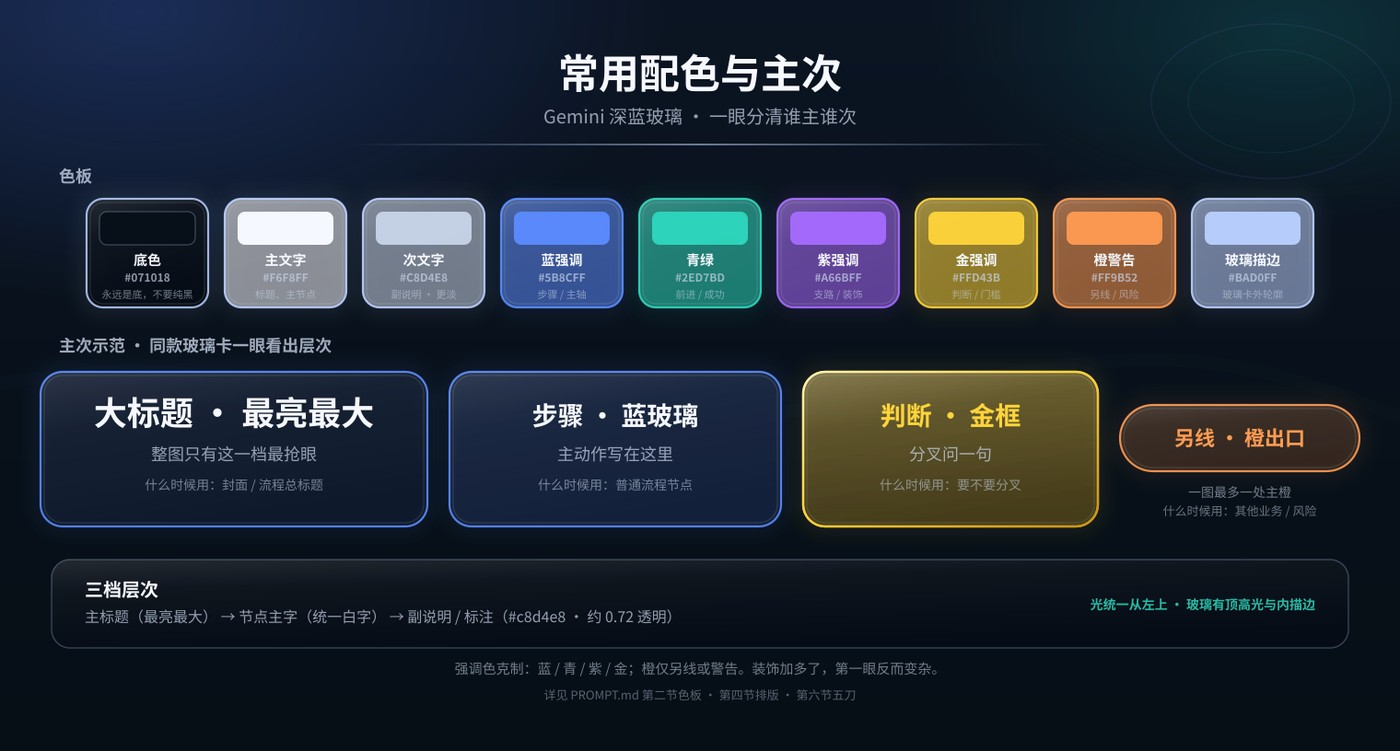
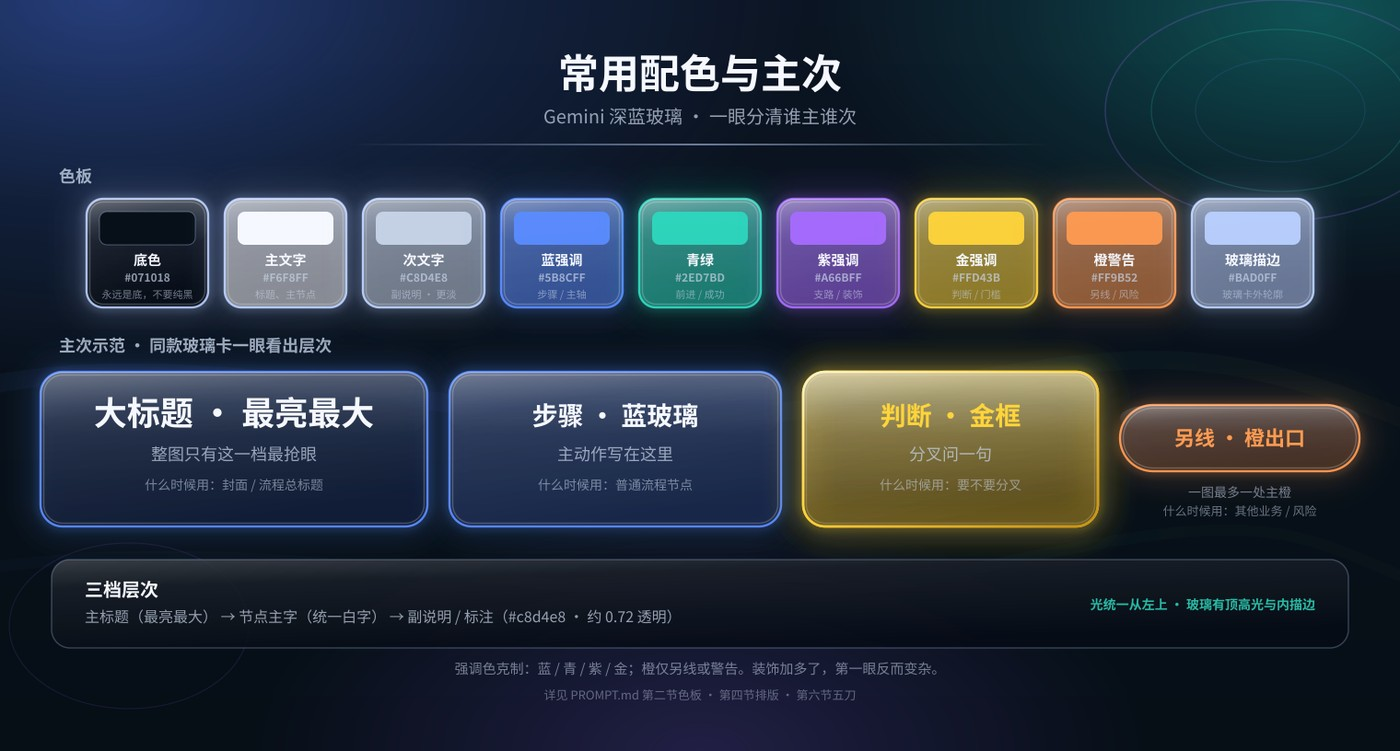
Amp frosted glass and glow on palette + flow sample (v12)
- Stronger radial glows, orbital rings, dual soft/tight outer glow
- Frost overlay, wider top specular band, clearer inner stroke
- Sample preview updated to rebate-flow-v12

diff --git a/build_palette.py b/build_palette.py
@@ -38,20 +38,24 @@ def text(x,y,s,sz,fill=TXT,wt=700,anchor="middle",op=1.0):
     return (f'<text x="{x:.1f}" y="{y:.1f}" text-anchor="{anchor}" font-family="{FONT}" '
             f'font-size="{sz}" font-weight="{wt}" fill="{fill}" fill-opacity="{op}">{esc(s)}</text>')
 
-def glass_card(x,y,w,h,stroke, rx=24, fill_tint=None, tint_op=0.16):
+def glass_card(x,y,w,h,stroke, rx=24, fill_tint=None, tint_op=0.22):
     p = []
     p.append(f'<rect x="{x}" y="{y}" width="{w}" height="{h}" rx="{rx}" fill="none" stroke="{stroke}" '
-             f'stroke-width="10" stroke-opacity="0.14" filter="url(#softGlow)"/>')
-    p.append(f'<rect x="{x}" y="{y}" width="{w}" height="{h}" rx="{rx}" fill="#060c15" fill-opacity="0.88"/>')
+             f'stroke-width="20" stroke-opacity="0.20" filter="url(#softGlow)"/>')
+    p.append(f'<rect x="{x}" y="{y}" width="{w}" height="{h}" rx="{rx}" fill="none" stroke="{stroke}" '
+             f'stroke-width="7" stroke-opacity="0.28" filter="url(#tightGlow)"/>')
+    p.append(f'<rect x="{x}" y="{y}" width="{w}" height="{h}" rx="{rx}" fill="#050b14" fill-opacity="0.90"/>')
     if fill_tint:
         p.append(f'<rect x="{x}" y="{y}" width="{w}" height="{h}" rx="{rx}" fill="{fill_tint}" fill-opacity="{tint_op}" '
-                 f'stroke="{stroke}" stroke-opacity="0.9" stroke-width="2.2"/>')
+                 f'stroke="{stroke}" stroke-opacity="0.95" stroke-width="2.4"/>')
     else:
         p.append(f'<rect x="{x}" y="{y}" width="{w}" height="{h}" rx="{rx}" fill="none" '
-                 f'stroke="{stroke}" stroke-opacity="0.85" stroke-width="2.2"/>')
+                 f'stroke="{stroke}" stroke-opacity="0.9" stroke-width="2.4"/>')
+    p.append(f'<rect x="{x}" y="{y}" width="{w}" height="{h}" rx="{rx}" fill="url(#frost)"/>')
     p.append(f'<rect x="{x}" y="{y}" width="{w}" height="{h}" rx="{rx}" fill="url(#glassHi)"/>')
-    p.append(f'<rect x="{x+4}" y="{y+4}" width="{w-8}" height="{h-8}" rx="{max(rx-4,4)}" fill="none" '
-             f'stroke="#ffffff" stroke-opacity="0.12" stroke-width="1.15"/>')
+    p.append(f'<rect x="{x}" y="{y}" width="{w}" height="{max(h*0.4, 24):.1f}" rx="{rx}" fill="url(#glassTopBand)"/>')
+    p.append(f'<rect x="{x+3.5}" y="{y+3.5}" width="{w-7}" height="{h-7}" rx="{max(rx-3.5,4)}" fill="none" '
+             f'stroke="#ffffff" stroke-opacity="0.22" stroke-width="1.4"/>')
     return "\n".join(p)
 
 parts = []
@@ -126,25 +130,29 @@ rx0 = (W - row_w) / 2
 
 # Title sample card
 x = rx0
-parts.append(glass_card(x, y_demo, dw1, demo_h, BLUE, rx=24, fill_tint=BLUE, tint_op=0.10))
+parts.append(glass_card(x, y_demo, dw1, demo_h, BLUE, rx=24, fill_tint=BLUE, tint_op=0.14))
 parts.append(text(x + dw1/2, y_demo + 58, "大标题 · 最亮最大", 36, TXT, 800))
 parts.append(text(x + dw1/2, y_demo + 96, "整图只有这一档最抢眼", 18, MUTED, 500, op=0.72))
 parts.append(text(x + dw1/2, y_demo + 128, "什么时候用：封面 / 流程总标题", 14, MUTED, 500, op=0.55))
 
 # Blue step
 x = rx0 + dw1 + gapd
-parts.append(glass_card(x, y_demo, dw2, demo_h, BLUE, rx=24, fill_tint=BLUE, tint_op=0.16))
+parts.append(glass_card(x, y_demo, dw2, demo_h, BLUE, rx=24, fill_tint=BLUE, tint_op=0.22))
 parts.append(text(x + dw2/2, y_demo + 58, "步骤 · 蓝玻璃", 28, TXT, 800))
 parts.append(text(x + dw2/2, y_demo + 96, "主动作写在这里", 18, MUTED, 500, op=0.72))
 parts.append(text(x + dw2/2, y_demo + 128, "什么时候用：普通流程节点", 14, MUTED, 500, op=0.55))
 
 # Gold decision
 x = rx0 + dw1 + gapd + dw2 + gapd
-parts.append(glass_card(x, y_demo, dw3, demo_h, GOLD, rx=24, fill_tint=GOLD, tint_op=0.18))
+parts.append(glass_card(x, y_demo, dw3, demo_h, GOLD, rx=24, fill_tint=GOLD, tint_op=0.26))
 # override with gold stroke gradient look
+parts.append(f'<rect x="{x}" y="{y_demo}" width="{dw3}" height="{demo_h}" rx="24" fill="none" stroke="{GOLD}" '
+             f'stroke-width="18" stroke-opacity="0.22" filter="url(#softGlow)"/>')
 parts.append(f'<rect x="{x}" y="{y_demo}" width="{dw3}" height="{demo_h}" rx="24" fill="url(#goldFill)" '
-             f'stroke="url(#goldStroke)" stroke-width="2.4"/>')
+             f'stroke="url(#goldStroke)" stroke-width="2.6"/>')
+parts.append(f'<rect x="{x}" y="{y_demo}" width="{dw3}" height="{demo_h}" rx="24" fill="url(#frost)"/>')
 parts.append(f'<rect x="{x}" y="{y_demo}" width="{dw3}" height="{demo_h}" rx="24" fill="url(#glassHi)"/>')
+parts.append(f'<rect x="{x}" y="{y_demo}" width="{dw3}" height="{demo_h*0.4:.1f}" rx="24" fill="url(#glassTopBand)"/>')
 parts.append(text(x + dw3/2, y_demo + 58, "判断 · 金框", 28, GOLD, 800))
 parts.append(text(x + dw3/2, y_demo + 96, "分叉问一句", 18, MUTED, 500, op=0.72))
 parts.append(text(x + dw3/2, y_demo + 128, "什么时候用：要不要分叉", 14, MUTED, 500, op=0.55))
@@ -153,7 +161,7 @@ parts.append(text(x + dw3/2, y_demo + 128, "什么时候用：要不要分叉", 
 x = rx0 + dw1 + gapd + dw2 + gapd + dw3 + gapd
 pill_h = 72
 py = y_demo + (demo_h - pill_h) / 2 - 12
-parts.append(glass_card(x, py, dw4, pill_h, ORANGE, rx=pill_h/2, fill_tint=ORANGE, tint_op=0.18))
+parts.append(glass_card(x, py, dw4, pill_h, ORANGE, rx=pill_h/2, fill_tint=ORANGE, tint_op=0.26))
 parts.append(text(x + dw4/2, py + pill_h/2 + 8, "另线 · 橙出口", 22, ORANGE, 800))
 parts.append(text(x + dw4/2, py + pill_h + 28, "一图最多一处主橙", 14, MUTED, 500, op=0.55))
 parts.append(text(x + dw4/2, py + pill_h + 48, "什么时候用：其他业务 / 风险", 13, MUTED, 500, op=0.5))
@@ -189,40 +197,59 @@ defs = f'''
   <stop offset="0%" stop-color="#0b1422"/><stop offset="70%" stop-color="{BG}"/>
   <stop offset="100%" stop-color="#060e16"/>
 </linearGradient>
-<radialGradient id="glowBlue" cx="10%" cy="2%" r="38%">
-  <stop offset="0%" stop-color="{CORE_BLUE}" stop-opacity="0.24"/><stop offset="100%" stop-color="{CORE_BLUE}" stop-opacity="0"/>
+<radialGradient id="glowBlue" cx="8%" cy="0%" r="50%">
+  <stop offset="0%" stop-color="{CORE_BLUE}" stop-opacity="0.40"/><stop offset="55%" stop-color="{CORE_BLUE}" stop-opacity="0.12"/>
+  <stop offset="100%" stop-color="{CORE_BLUE}" stop-opacity="0"/>
 </radialGradient>
-<radialGradient id="glowTeal" cx="92%" cy="4%" r="26%">
-  <stop offset="0%" stop-color="#19e7d0" stop-opacity="0.14"/><stop offset="100%" stop-color="#19e7d0" stop-opacity="0"/>
+<radialGradient id="glowTeal" cx="94%" cy="2%" r="36%">
+  <stop offset="0%" stop-color="#19e7d0" stop-opacity="0.30"/><stop offset="60%" stop-color="#19e7d0" stop-opacity="0.09"/>
+  <stop offset="100%" stop-color="#19e7d0" stop-opacity="0"/>
+</radialGradient>
+<radialGradient id="glowBot" cx="50%" cy="100%" r="32%">
+  <stop offset="0%" stop-color="#8e63ff" stop-opacity="0.20"/><stop offset="100%" stop-color="#8e63ff" stop-opacity="0"/>
 </radialGradient>
 <linearGradient id="divider" x1="0" y1="0" x2="1" y2="0">
   <stop offset="0%" stop-color="{BORDER}" stop-opacity="0"/><stop offset="50%" stop-color="{BORDER}" stop-opacity="0.55"/>
   <stop offset="100%" stop-color="{BORDER}" stop-opacity="0"/>
 </linearGradient>
-<linearGradient id="glassHi" x1="0" y1="0" x2="0.35" y2="1">
-  <stop offset="0%" stop-color="#ffffff" stop-opacity="0.12"/><stop offset="35%" stop-color="#ffffff" stop-opacity="0.035"/>
+<linearGradient id="glassHi" x1="0" y1="0" x2="0.4" y2="1">
+  <stop offset="0%" stop-color="#ffffff" stop-opacity="0.20"/><stop offset="28%" stop-color="#ffffff" stop-opacity="0.07"/>
   <stop offset="100%" stop-color="#ffffff" stop-opacity="0"/>
 </linearGradient>
+<linearGradient id="glassTopBand" x1="0" y1="0" x2="0" y2="1">
+  <stop offset="0%" stop-color="#ffffff" stop-opacity="0.18"/><stop offset="55%" stop-color="#b8d4ff" stop-opacity="0.06"/>
+  <stop offset="100%" stop-color="#ffffff" stop-opacity="0"/>
+</linearGradient>
+<linearGradient id="frost" x1="0" y1="0" x2="0" y2="1">
+  <stop offset="0%" stop-color="#dce8ff" stop-opacity="0.10"/><stop offset="40%" stop-color="#a8c4ff" stop-opacity="0.045"/>
+  <stop offset="100%" stop-color="#071018" stop-opacity="0.02"/>
+</linearGradient>
 <linearGradient id="goldFill" x1="0" y1="0" x2="0" y2="1">
-  <stop offset="0%" stop-color="{GOLD}" stop-opacity="0.22"/><stop offset="100%" stop-color="#b8860b" stop-opacity="0.12"/>
+  <stop offset="0%" stop-color="{GOLD}" stop-opacity="0.34"/><stop offset="100%" stop-color="#b8860b" stop-opacity="0.18"/>
 </linearGradient>
 <linearGradient id="goldStroke" x1="0" y1="0" x2="1" y2="1">
   <stop offset="0%" stop-color="#fff3b0"/><stop offset="45%" stop-color="{GOLD}"/><stop offset="100%" stop-color="#c99214"/>
 </linearGradient>
 <linearGradient id="ribbon" x1="0" y1="0" x2="1" y2="0">
-  <stop offset="0%" stop-color="#4285f4" stop-opacity="0.16"/><stop offset="40%" stop-color="#8e63ff" stop-opacity="0.12"/>
-  <stop offset="75%" stop-color="#2ed7bd" stop-opacity="0.10"/><stop offset="100%" stop-color="#ffd43b" stop-opacity="0.08"/>
+  <stop offset="0%" stop-color="#4285f4" stop-opacity="0.32"/><stop offset="40%" stop-color="#8e63ff" stop-opacity="0.24"/>
+  <stop offset="75%" stop-color="#2ed7bd" stop-opacity="0.18"/><stop offset="100%" stop-color="#ffd43b" stop-opacity="0.12"/>
 </linearGradient>
-<filter id="softGlow" x="-25%" y="-45%" width="150%" height="190%"><feGaussianBlur stdDeviation="10"/></filter>
+<filter id="softGlow" x="-40%" y="-60%" width="180%" height="220%"><feGaussianBlur stdDeviation="16"/></filter>
+<filter id="tightGlow" x="-20%" y="-35%" width="140%" height="170%"><feGaussianBlur stdDeviation="5"/></filter>
 '''
 
 bg = (f'<rect width="{W}" height="{H}" fill="url(#bgGrad)"/>'
       f'<rect width="{W}" height="{H}" fill="url(#glowBlue)"/>'
       f'<rect width="{W}" height="{H}" fill="url(#glowTeal)"/>'
-      f'<ellipse cx="1380" cy="110" rx="130" ry="84" fill="none" stroke="{PURPLE}" stroke-opacity="0.12" stroke-width="1.1"/>'
-      f'<ellipse cx="1380" cy="110" rx="90" ry="56" fill="none" stroke="{TEAL}" stroke-opacity="0.09" stroke-width="1"/>'
+      f'<rect width="{W}" height="{H}" fill="url(#glowBot)"/>'
+      f'<ellipse cx="1390" cy="120" rx="190" ry="120" fill="none" stroke="{PURPLE}" stroke-opacity="0.22" stroke-width="1.6"/>'
+      f'<ellipse cx="1390" cy="120" rx="140" ry="88" fill="none" stroke="{TEAL}" stroke-opacity="0.18" stroke-width="1.3"/>'
+      f'<ellipse cx="1390" cy="120" rx="92" ry="56" fill="none" stroke="{BLUE}" stroke-opacity="0.14" stroke-width="1.1"/>'
+      f'<ellipse cx="140" cy="680" rx="130" ry="90" fill="none" stroke="{PURPLE}" stroke-opacity="0.12" stroke-width="1.2"/>'
       f'<path d="M -20 420 C 280 360, 560 500, 900 440 S 1300 360, 1560 470" fill="none" stroke="url(#ribbon)" '
-      f'stroke-width="14" stroke-opacity="0.1" stroke-linecap="round"/>')
+      f'stroke-width="20" stroke-opacity="0.16" stroke-linecap="round"/>'
+      f'<path d="M -30 620 C 350 560, 700 700, 1050 620 S 1400 580, 1580 650" fill="none" stroke="url(#ribbon)" '
+      f'stroke-width="12" stroke-opacity="0.10" stroke-linecap="round"/>')
 
 svg = (f'<?xml version="1.0" encoding="UTF-8"?>\n<svg xmlns="http://www.w3.org/2000/svg" width="{W}" height="{H}" viewBox="0 0 {W} {H}">\n'
        f'<defs>{defs}</defs>\n{bg}\n' + "\n".join(parts) + "\n</svg>\n")

diff --git a/README.md b/README.md
@@ -22,7 +22,7 @@
 | [palette-hierarchy.png](./palette-hierarchy.png) | 常用配色与主次参考图（色块 + HEX + 什么时候用 + 主次示范卡） |
 | [palette-hierarchy.svg](./palette-hierarchy.svg) | 同上 SVG 源 |
 | [palette-hierarchy-preview.jpg](./palette-hierarchy-preview.jpg) | 聊天预览用 JPG |
-| [samples/rebate-flow-v11-preview.jpg](./samples/rebate-flow-v11-preview.jpg) | 按本标准落地的返佣节点接待流程图示例 |
+| [samples/rebate-flow-v12-preview.jpg](./samples/rebate-flow-v12-preview.jpg) | 按本标准落地的返佣节点接待流程图示例 |
 | README.md | 本说明 |
 
 ## 配色参考图
@@ -33,7 +33,7 @@
 
 ## 示例流程图
 
-![返佣节点接待流程图示例](./samples/rebate-flow-v11-preview.jpg)
+![返佣节点接待流程图示例](./samples/rebate-flow-v12-preview.jpg)
 
 按本标准程序化 SVG 出的竖向真流程图：分叉汇合、语义配色、量字定框、零重叠。
 
